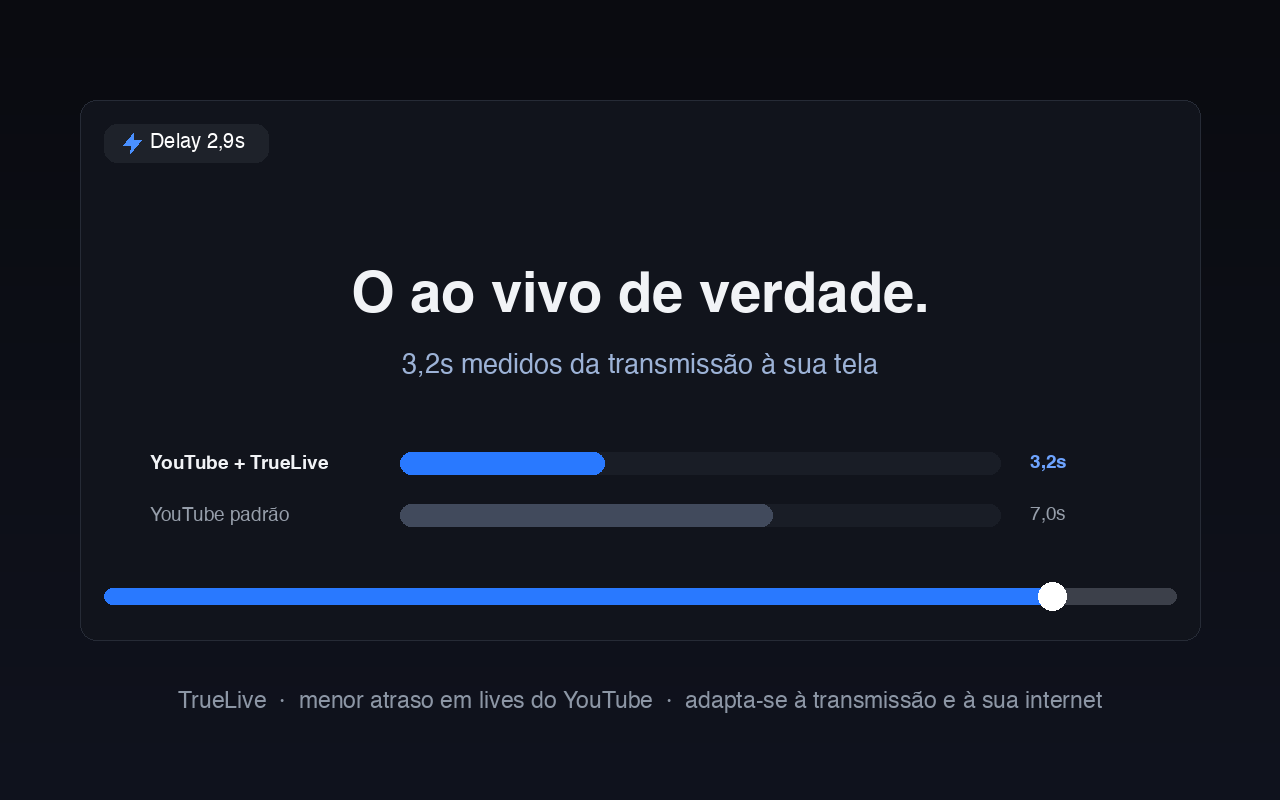
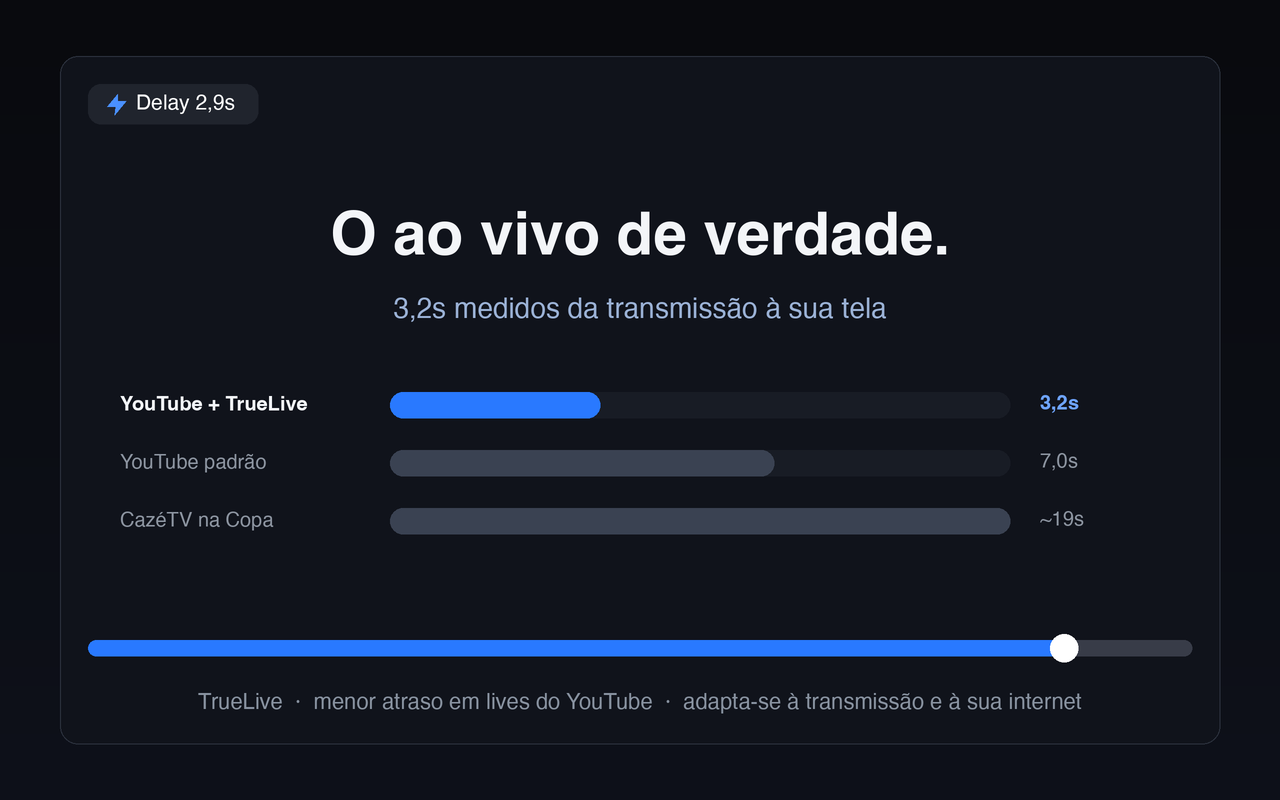
fix: cross-platform + imagem 2x + deploy assets-first
- CSS responsivo em 4 breakpoints (1024/860/480/1600+): tabela rolável no
  mobile, CTAs full-width <=480, grid da corrida e barras adaptados, margens
  revisadas; zero overflow horizontal validado em 6 larguras (360-1920)
- Mock do player regenerado em 2x (2560x1600, nítido em retina) com margens
  justas e o comparativo preenchendo o espaço
- deploy-site.mjs: assets sobem ANTES dos HTMLs — mata a corrida que fez o
  Cloudflare cachear CSS velho sob hash novo (beta-chip sumido em produção)

diff --git a/site/assets/style.css b/site/assets/style.css
@@ -417,7 +417,8 @@ section.alt {
 .bars-foot { margin-top: 26px; font-size: 13.5px; color: var(--text-2); line-height: 1.7; max-width: 820px; }
 
 /* ------------------------------------------------------------------ expectativa */
-.classes { width: 100%; border-collapse: collapse; margin-top: 6px; }
+.classes-scroll { overflow-x: auto; -webkit-overflow-scrolling: touch; }
+.classes { width: 100%; min-width: 520px; border-collapse: collapse; margin-top: 6px; }
 
 .classes th, .classes td { padding: 15px 16px; text-align: left; border-bottom: 1px solid var(--border); font-size: 15px; }
 .classes th { color: var(--text-3); font-size: 11.5px; text-transform: uppercase; letter-spacing: 0.1em; font-weight: 700; }
@@ -676,18 +677,50 @@ footer a:hover { color: var(--text); }
 .reveal-d3 { transition-delay: 270ms; }
 
 /* ------------------------------------------------------------------ responsive */
+@media (max-width: 1024px) {
+    .cards { grid-template-columns: repeat(3, 1fr); gap: 12px; }
+    .card { padding: 20px 18px; }
+    .bar-row { grid-template-columns: 200px 1fr 110px; }
+    .lane { grid-template-columns: 170px 1fr 76px; gap: 10px; }
+}
+
 @media (max-width: 860px) {
-    section { padding: 56px 0; }
-    .hero { padding: 32px 0 44px; }
-    .cards { grid-template-columns: 1fr; }
+    section { padding: 52px 0; }
+    .wrap { padding: 0 18px; }
+    .hero { padding: 24px 0 40px; }
+    .hero .sub { font-size: 16px; }
+    .cards { grid-template-columns: 1fr; gap: 12px; }
     .bar-row { grid-template-columns: 1fr; gap: 6px; }
     .bar-label { text-align: left; }
-    .donate { grid-template-columns: 1fr; padding: 22px; }
-    .donate .qr { max-width: 210px; }
-    .lane { grid-template-columns: 1fr; gap: 4px; }
+    .bar-val { text-align: right; margin-top: -24px; position: relative; z-index: 1; padding-right: 4px; }
+    .donate { grid-template-columns: 1fr; padding: 20px; gap: 20px; }
+    .donate .qr { max-width: 200px; }
+    .lane { grid-template-columns: 1fr; gap: 5px; padding: 10px 0; }
     .lane-stamp { text-align: left; }
-    .race { padding: 18px 16px 14px; }
-    .classes th, .classes td { padding: 12px 10px; font-size: 13.5px; }
+    .race { padding: 16px 14px 12px; margin-left: -4px; margin-right: -4px; }
+    .race-foot { font-size: 11.5px; }
+    .classes th, .classes td { padding: 11px 10px; font-size: 13px; }
+    .honest { padding: 16px 16px; font-size: 14px; }
+    .steps li { padding-left: 52px; font-size: 14.5px; }
+    .steps::before { left: 15px; }
+    .steps li::before { width: 31px; height: 31px; font-size: 13px; }
+    .top-nav { gap: 0; }
+    .top-nav a { padding: 8px 8px; }
+    .hero-note { padding: 0 8px; }
+}
+
+@media (max-width: 480px) {
+    .hero h1 { font-size: 31px; }
+    .eyebrow { font-size: 11.5px; padding: 5px 11px; }
+    .cta-row .btn { width: 100%; justify-content: center; }
+    .top-nav a:not(.lang) { display: none; }
+    .badge-demo { flex-direction: column; align-items: flex-start; gap: 10px; }
+    .foot-grid { flex-direction: column; align-items: flex-start; gap: 10px; }
+}
+
+@media (min-width: 1600px) {
+    :root { --max: 1160px; }
+    .race { max-width: 940px; }
 }
 
 @media (prefers-reduced-motion: reduce) {

diff --git a/site/en/index.html b/site/en/index.html
@@ -24,7 +24,7 @@
     <meta name="twitter:description" content="The lowest delay the stream and your internet allow — a measured 3.2s. Free and open source." />
     <meta name="twitter:image" content="https://truelive.vitorplentz.com.br/assets/og-image.png?v=a794f55f" />
     <link rel="icon" href="../assets/icon.png?v=a84b11e6" />
-    <link rel="stylesheet" href="../assets/style.css?v=61688fe5" />
+    <link rel="stylesheet" href="../assets/style.css?v=0c67041a" />
     <link rel="alternate" hreflang="pt-BR" href="https://truelive.vitorplentz.com.br/" />
     <script type="application/ld+json">
     {"@context":"https://schema.org","@type":"SoftwareApplication","name":"TrueLive","applicationCategory":"BrowserApplication","applicationSubCategory":"BrowserExtension","operatingSystem":"Chrome, Edge, Brave, Opera, Firefox","inLanguage":"en","offers":{"@type":"Offer","price":"0","priceCurrency":"USD"},"description":"Free, open-source extension that cuts YouTube live stream delay to the minimum the stream and your connection allow.","url":"https://truelive.vitorplentz.com.br/en/","license":"https://www.gnu.org/licenses/gpl-3.0.html"}
@@ -127,7 +127,7 @@
                 <h2>What delay will you get?</h2>
                 <p class="lead">Straight talk: the minimum delay doesn't depend only on the extension.
                     The channel picks the latency class when it goes live:</p>
-                <table class="classes">
+                <div class="classes-scroll"><table class="classes">
                     <tr>
                         <th>How the channel streams</th>
                         <th>Physical floor</th>
@@ -148,7 +148,7 @@
                         <td>~10-30s</td>
                         <td>the stream's floor (~10s+)</td>
                     </tr>
-                </table>
+                </table></div>
                 <p class="honest"><strong>Why can't anyone go lower?</strong> On a normal-latency stream,
                     the newest video simply hasn't arrived at your computer yet — not before ~10s — no magic
                     breaks that floor, and anyone promising otherwise is lying. What TrueLive guarantees:
@@ -190,7 +190,7 @@
                 <span class="badge-demo-note">The in-player badge shows your real delay dropping, live — exactly like this.</span>
             </div>
             <div class="hero-shot reveal">
-                <img src="../assets/screenshot-1-hero.png?v=1793fc49" loading="lazy" width="1280" height="800"
+                <img src="../assets/screenshot-1-hero.png?v=ee632e7b" loading="lazy" width="1280" height="800"
                     alt="YouTube player with the TrueLive badge showing 2.9 seconds of delay" />
             </div>
         </section>

diff --git a/site/index.html b/site/index.html
@@ -24,7 +24,7 @@
     <meta name="twitter:description" content="O menor delay que a transmissão e a sua internet permitem — 3,2s medidos. Grátis e de código aberto." />
     <meta name="twitter:image" content="https://truelive.vitorplentz.com.br/assets/og-image.png?v=a794f55f" />
     <link rel="icon" href="assets/icon.png?v=a84b11e6" />
-    <link rel="stylesheet" href="assets/style.css?v=61688fe5" />
+    <link rel="stylesheet" href="assets/style.css?v=0c67041a" />
     <link rel="alternate" hreflang="en" href="https://truelive.vitorplentz.com.br/en/" />
     <script type="application/ld+json">
     {"@context":"https://schema.org","@type":"SoftwareApplication","name":"TrueLive","applicationCategory":"BrowserApplication","applicationSubCategory":"BrowserExtension","operatingSystem":"Chrome, Edge, Brave, Opera, Firefox","inLanguage":"pt-BR","offers":{"@type":"Offer","price":"0","priceCurrency":"BRL"},"description":"Extensão gratuita e de código aberto que reduz o atraso de lives do YouTube ao mínimo que a transmissão e a internet do usuário permitem.","url":"https://truelive.vitorplentz.com.br/","license":"https://www.gnu.org/licenses/gpl-3.0.html"}
@@ -127,7 +127,7 @@
                 <h2>Que delay você vai ter?</h2>
                 <p class="lead">Vamos ser diretos: o delay mínimo não depende só da extensão. Quem
                     define a classe de latência é o canal, na hora de transmitir:</p>
-                <table class="classes">
+                <div class="classes-scroll"><table class="classes">
                     <tr>
                         <th>Como o canal transmite</th>
                         <th>Piso físico</th>
@@ -148,7 +148,7 @@
                         <td>~10-30s</td>
                         <td>o piso da stream (~10s+)</td>
                     </tr>
-                </table>
+                </table></div>
                 <p class="honest"><strong>Por que não dá pra ir além?</strong> Em latência normal, o vídeo
                     mais novo <em>nem chegou</em> ao seu computador antes de ~10s — não existe mágica que
                     fure esse piso, e quem promete o contrário está mentindo. O que o TrueLive garante:
@@ -189,7 +189,7 @@
                 <span class="badge-demo-note">O badge no player mostra seu delay real caindo, ao vivo. Do jeito que você vai ver.</span>
             </div>
             <div class="hero-shot reveal">
-                <img src="assets/screenshot-1-hero.png?v=1793fc49" loading="lazy" width="1280" height="800"
+                <img src="assets/screenshot-1-hero.png?v=ee632e7b" loading="lazy" width="1280" height="800"
                     alt="Player do YouTube com o badge do TrueLive mostrando 2,9 segundos de delay" />
             </div>
         </section>